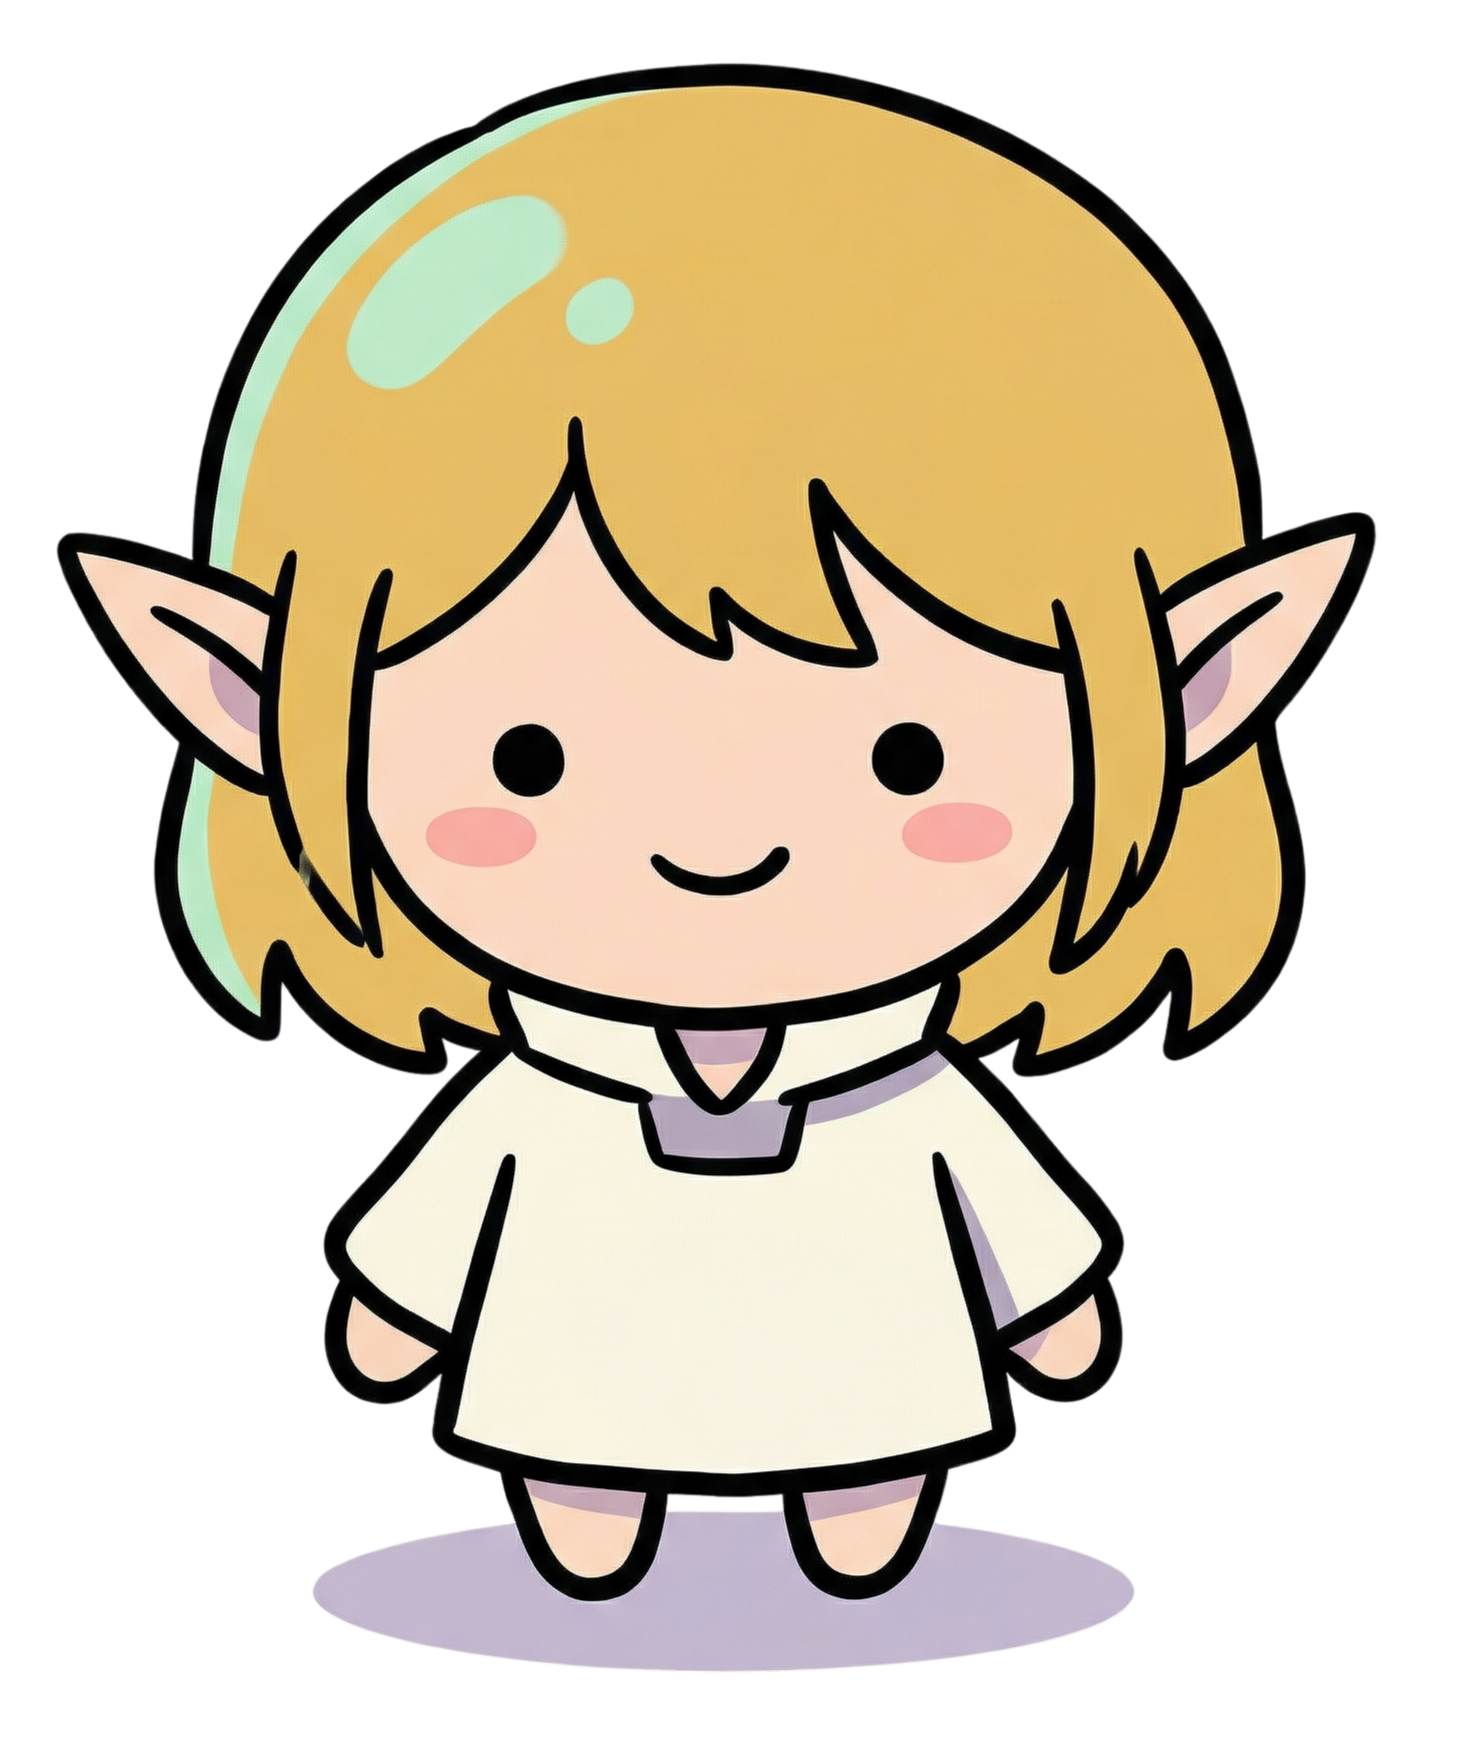
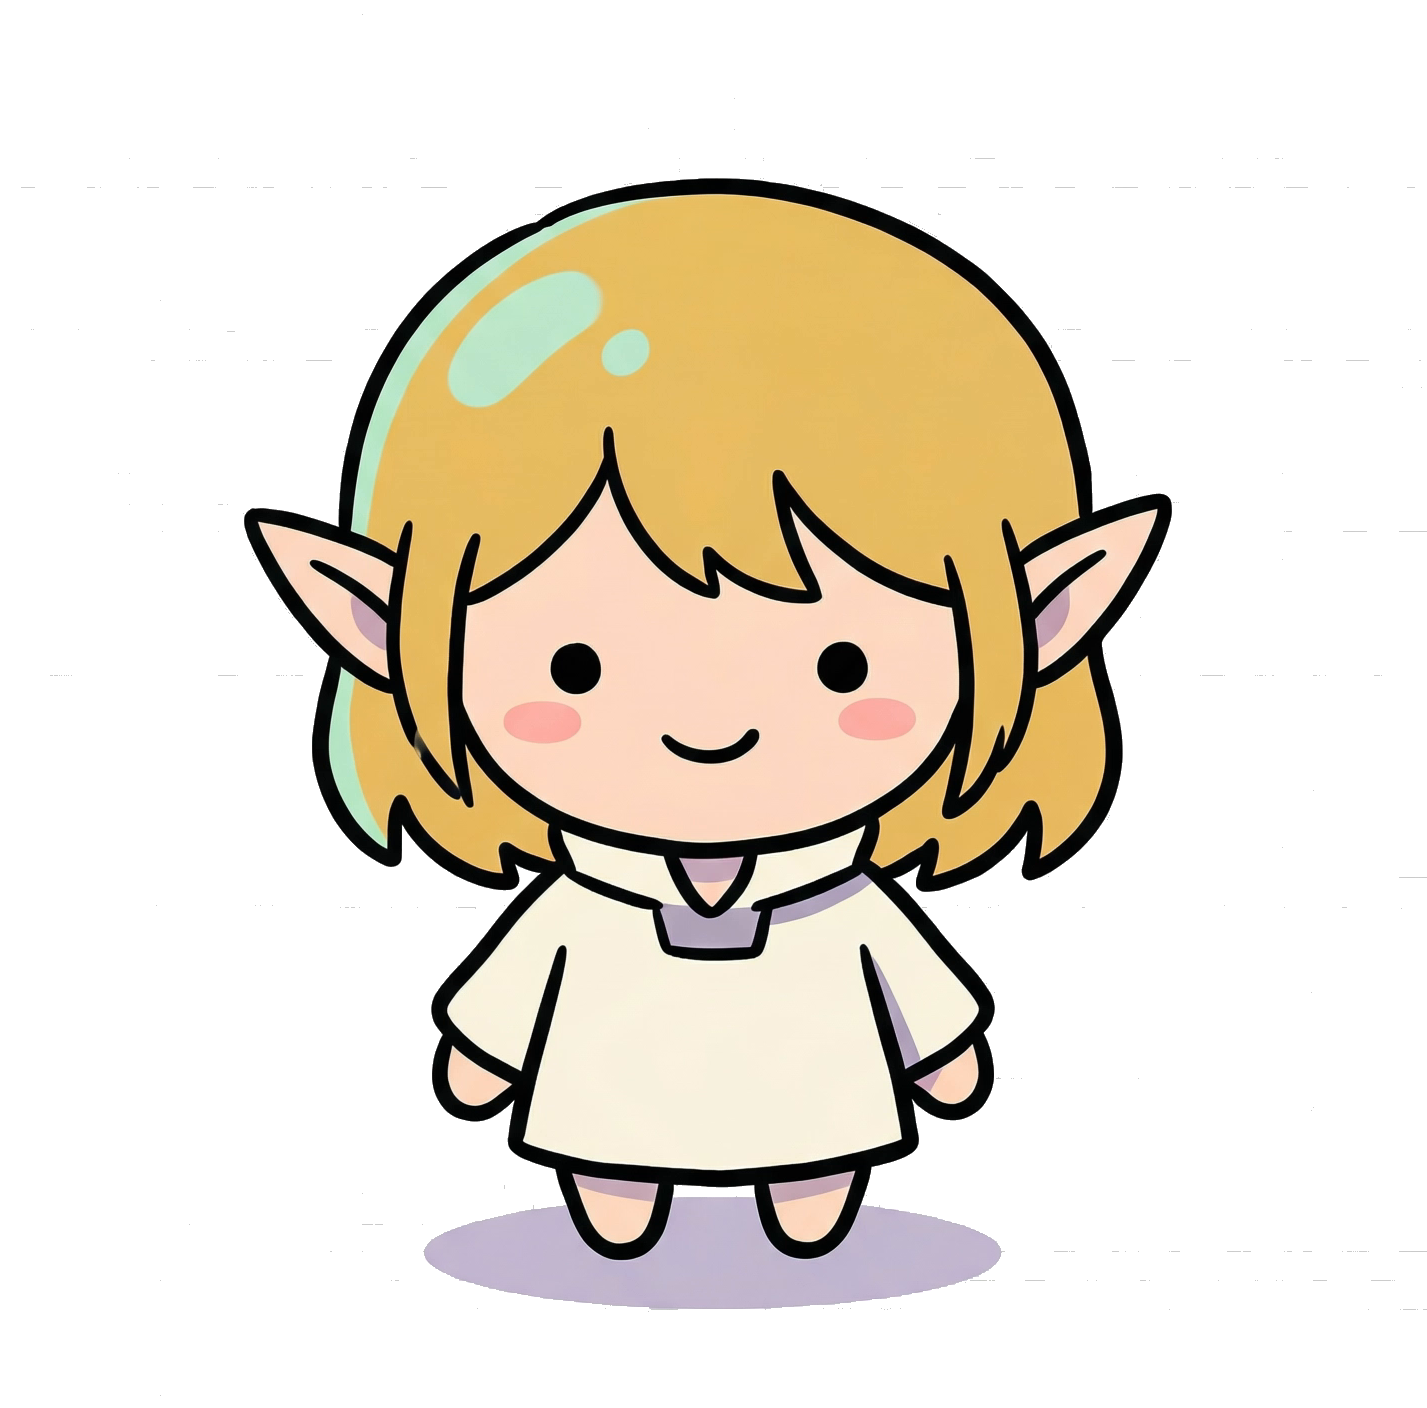
Sprite hover for The Hero tile
Adds images/Inti_hover_sprite.webp (25 frames) and data-sprite on the
tile. Inti_1.png is now the sheet's frame 0 crop, and Inti_1.webp is
regenerated with the Step 5 settings, so the idle icon stands in for
frame 0.

diff --git a/index.html b/index.html
@@ -128,7 +128,7 @@
   </a>
 
   <!-- ═══ THE HERO, right lower ═══ -->
-  <a href="/the-never-ending-hero" class="tile pos-rl">
+  <a href="/the-never-ending-hero" class="tile pos-rl" data-sprite="images/Inti_hover_sprite.webp" data-frames="25">
     <div class="tile-body">
       <div class="tile-img">
         <picture><source srcset="images/Inti_1.webp" type="image/webp"><img src="images/Inti_1.png" class="idle" alt="The Hero"></picture>
